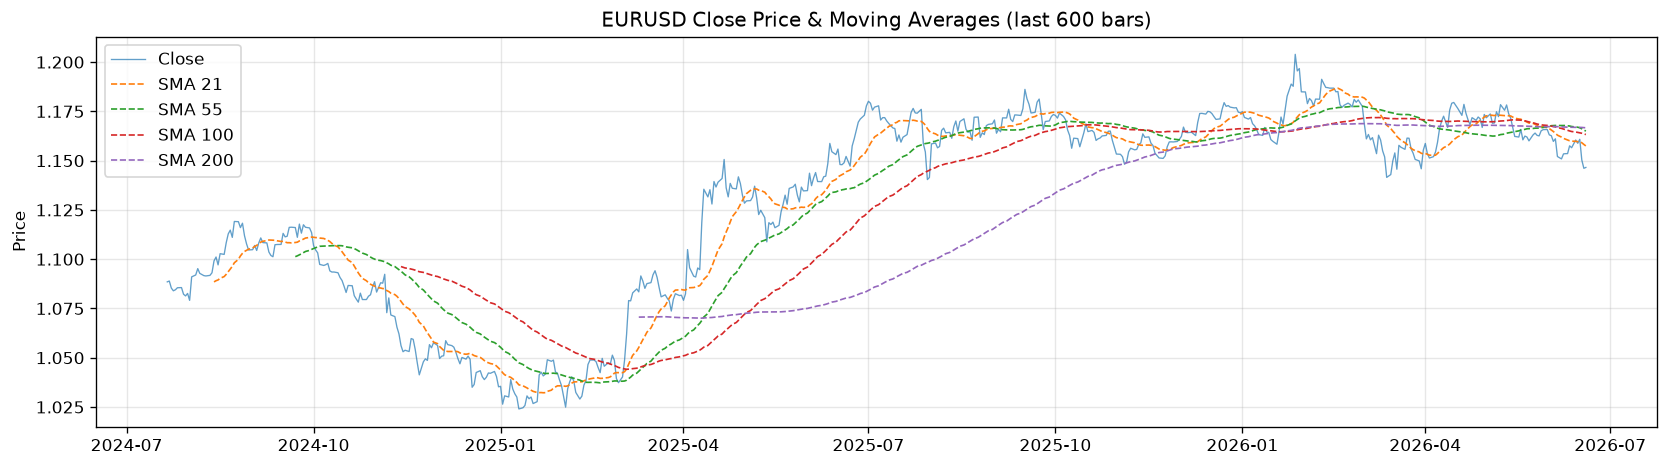
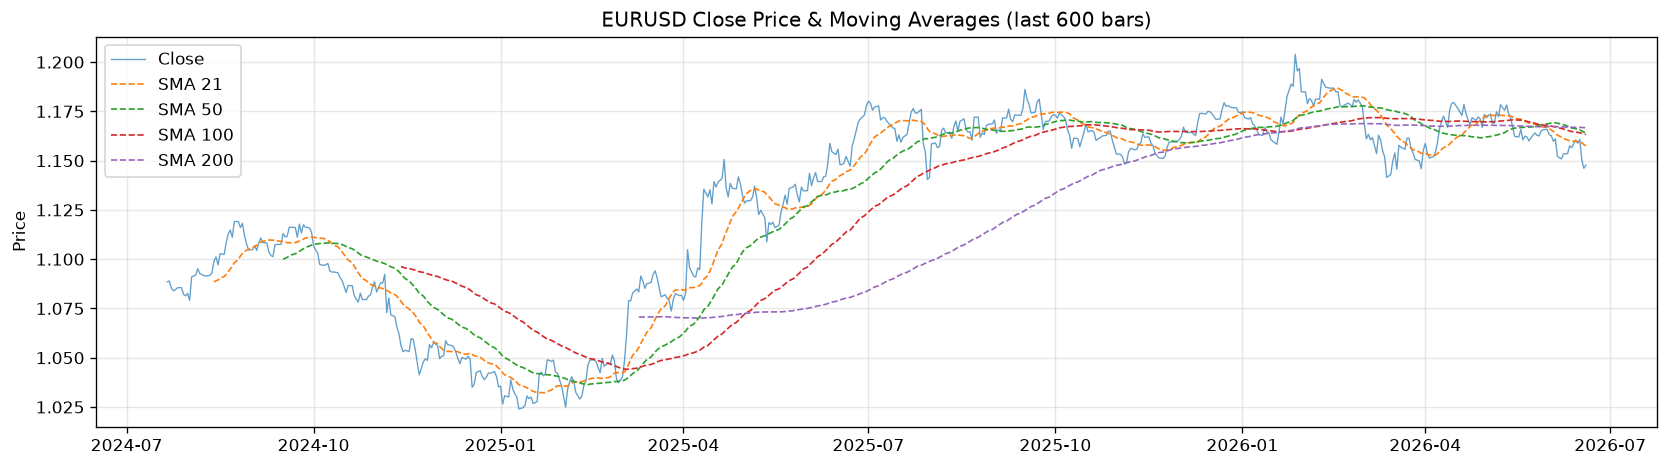
Refactor code structure for improved readability and maintainability

diff --git a/.github/skills/data-preprocessing-validation/SKILL.md b/.github/skills/data-preprocessing-validation/SKILL.md
@@ -49,21 +49,71 @@ Violations that cause silent leakage in financial ML:
 
 ### Step 1 — Data Acquisition
 
-```python
-import yfinance as yf
-import pandas as pd
+Choose the source that fits your setup. All sources must produce the same normalized DataFrame before proceeding.
 
-df = yf.download("EURUSD=X", start="2018-01-01", end="2024-12-31", interval="1d")
-df.to_csv("data/raw/eurusd_daily.csv")
+---
+
+#### Option A — MetaTrader5 (default for this project)
+
+```python
+import MetaTrader5 as mt5
+import pandas as pd
+from datetime import datetime, timezone
+
+mt5.initialize()  # MT5 terminal must be open and logged in
+
+symbol    = "EURUSD"
+timeframe = mt5.TIMEFRAME_D1
+
+utc_now = datetime.now(timezone.utc)
+rates   = mt5.copy_rates_from(symbol, timeframe, utc_now, 20_000)
+
+# Fallback if date-based fetch is empty
+if rates is None or len(rates) == 0:
+    rates = mt5.copy_rates_from_pos(symbol, timeframe, 0, 20_000)
+
+mt5.shutdown()
+
+df = pd.DataFrame(rates)
+df['time'] = pd.to_datetime(df['time'], unit='s')
+df.set_index('time', inplace=True)
+df.sort_index(inplace=True)
+df = df[['open', 'high', 'low', 'close', 'tick_volume']]
 ```
 
-Alternatives: `pandas_datareader`, broker APIs, Dukascopy CSV exports.
+---
 
-**Validation checks after loading:**
+#### Option B — yfinance (no broker required)
+
+```python
+import yfinance as yf
+
+df = yf.download("EURUSD=X", start="2018-01-01", end="2024-12-31", interval="1d")
+df.columns = [c.lower() for c in df.columns]          # normalize column names
+df = df.rename(columns={"vol": "tick_volume"})
+df = df[['open', 'high', 'low', 'close', 'tick_volume']]
+df.index.name = 'time'
+```
+
+---
+
+#### Option C — CSV / Dukascopy export
+
+```python
+df = pd.read_csv("data/raw/EURUSD_D1.csv", parse_dates=["time"], index_col="time")
+df.columns = [c.lower() for c in df.columns]
+df.sort_index(inplace=True)
+df = df[['open', 'high', 'low', 'close', 'tick_volume']]
+```
+
+---
+
+**Validation checks after loading (all sources):**
 - [ ] Index is `DatetimeIndex`, sorted ascending
 - [ ] No duplicate timestamps
-- [ ] Columns: Open, High, Low, Close, Volume (or Adj Close)
+- [ ] Columns: `open`, `high`, `low`, `close`, `tick_volume`
 - [ ] Date range matches expectations
+- [ ] `tick_volume` may be 0 for some FX brokers — this is normal
 
 ### Step 2 — Missing Value Audit
 